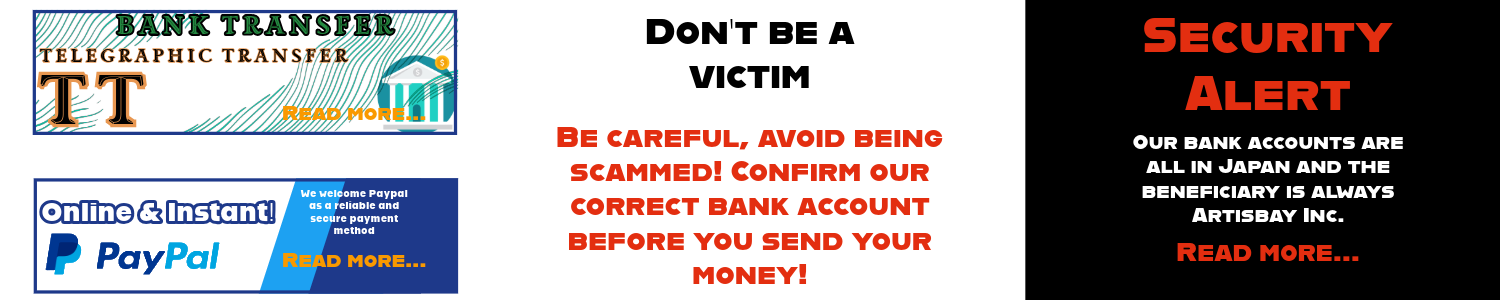
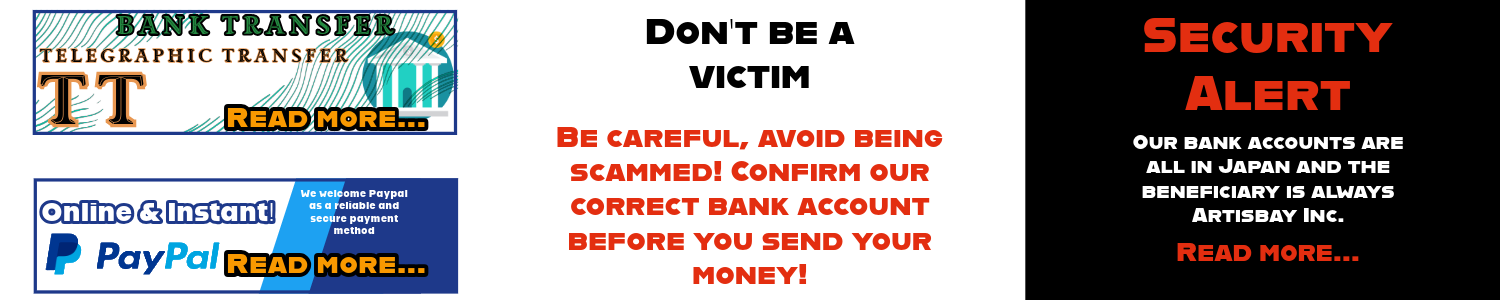
updated image distortion and width

Changed region(s): [[0.1227, 0.09, 0.3067, 0.45], [0.1227, 0.84, 0.3067, 0.93]]

diff --git a/src/css/RightSidebar.css b/src/css/RightSidebar.css
@@ -1,77 +1,82 @@
+/* Ensure the right sidebar has sufficient height */
 .right-sidebar {
-  width: 300px; /* Set the desired width */
+  width: 300px; /* Fixed width for sidebar */
   background-color: #fff; /* Optional: Set a background color */
-  padding: 20px 30px 0px 5px;
+  padding: 20px 10px 0px 5px; /* Adjust padding */
   display: flex;
-  align-items: stretch; /* Stretch children to fill the container */
+  flex-direction: column; /* Align children vertically */
+  box-sizing: border-box; /* Include padding in the total dimensions */
+}
+
+.right-sidebar h2 {
+  font-size: 1.5rem; /* Heading size */
+  margin-bottom: 15px; /* Space below the heading */
+  position: absolute;
+  top: 5%;
+}
+
+/* Account container takes full sidebar height */
+.right-sidebar .account-container {
+  flex: 1; /* Fill available space in sidebar */
+  display: flex;
+  flex-direction: column; /* Stack banners vertically */
+  justify-content: space-between; /* Space out banners evenly */
+  box-sizing: border-box; /* Include padding */
+  padding: 10px;
+  align-items: center;
+}
+
+/* Banners share space dynamically */
+.right-sidebar .register-banner,
+.right-sidebar .shipment-banner,
+.right-sidebar .welcome-banner {
+  flex: 1; /* Allow banners to share space equally */
+  display: flex;
+  justify-content: center; /* Center images horizontally */
+  align-items: center; /* Center images vertically */
+  height: 50%; /* Each banner takes half the container */
+  box-sizing: border-box;
   position: relative;
 }
 
-.right-sidebar .account-container {
-  padding: 5px 10px;
+.right-sidebar .shipment-banner {
+  margin-bottom: 0; /* Remove margin for last banner */
+}
+
+/* Images adjust dynamically within banners */
+.right-sidebar .register-banner img,
+.right-sidebar .shipment-banner img,
+.right-sidebar .welcome-banner img {
+  width: 100%; /* Fill the width of the parent container */
+  height: 100%; /* Fill the height of the parent container */
+  display: block; /* Avoid inline spacing */
+}
+
+.register-banner, .welcome-banner, .shipment-banner {
+  position: relative;
+} 
+
+.sign-in-btn, .register-btn {
+  background-color: transparent;
+  color: transparent;
+}
+
+.sign-in-btn {
+  position: absolute;
+  top: 23%;
+  left: 35%;
+}
+
+.register-btn {
+  position: absolute;
+  top: 1%;
+  width: 77%;
+  height: 13%;
+  left: 12%;
 }
 
 .welcome-banner {
-  position: relative;
-  background-image: url('../../public/images/homepage/register1.jpeg');
-  background-size: cover;
-  height: 50%;
   display: flex;
   justify-content: center;
-  margin: 10px 0;
-}
-
-.register-banner {
-  position: relative;
-  background-image: url('../../public//images/homepage/register0.jpeg');
-  height: 50%;
-  background-size: cover;
-  background-position: center;
-}
-
-.shipment-banner {
-  position: relative;
-  background-image: url('../../public//images/homepage/Shippingschedulepost.jpeg');
-  height: 45%;
-  background-size: cover;
-}
-
-.welcome-banner h2 {
-  position: absolute;
-  top: 7%;
-  color: #ffff;
-}
-
-.account-container {
-  width: 100%; /* Ensure it takes full width of the sidebar */
-  overflow: hidden; /* Hide overflow if images exceed the container */
-}
-
-.image-section {
-  margin-top: 20px; /* Space above the image section */
-  text-align: center; /* Center the images */
-  width: 100%; /* Ensure it takes full width */
-}
-
-.image-section img {
-  width: 100%; /* Make images responsive */
-  height: auto; /* Maintain aspect ratio */
-  max-width: 100%; /* Ensure images do not exceed the container width */
-  object-fit: cover; /* Maintain aspect ratio and cover the container */
-  margin-bottom: 10px; /* Space below each image */
-  box-sizing: border-box; /* Include padding and border in element's total width and height */
-}
-
-/* Optional: Specific styles for the additional image */
-.additional-image {
-  margin-top: 20px; /* Space above the additional image */
-}
-
-.account-container a {
-  text-decoration: none;
-}
-
-.right-sidebar .header {
-  position: relative;
-  top: -15px;
+ 
 }

diff --git a/src/css/homepage.css b/src/css/homepage.css
@@ -12,7 +12,7 @@ option {
 }
 
 .homepage {
-    padding: 20px 0px 0px 30px;
+    padding: 20px 0px 0px 20px;
     overflow: hidden; /* Prevent overflow issues */
     color: #444; /* Soft dark gray for general text */
     display: flex; /* Use flexbox to align elements */
@@ -136,7 +136,7 @@ option {
     display: grid;
     grid-template-columns: repeat(8, 1fr); /* Keep five columns */
     gap: 30px; /* Increased space between cards */
-    padding: 30px; /* Padding around the container */
+    padding: 20px; /* Padding around the container */
 }
 
 @media (max-width: 1000px){
@@ -363,7 +363,7 @@ option {
 .ad-header-container {
     display: flex; /* Use flexbox for layout */
     align-items: center; /* Align items vertically centered */
-    padding: 30px; /* Padding around the header container */
+    padding: 20px; /* Padding around the header container */
     position: relative;
 }
 
@@ -379,7 +379,7 @@ option {
 }
 .order-now , .pointer ,.cta-btn-link , .register-now-btn ,
  .eco-btn , .small-banner-btn , .security-btn , .dismantling-btn,
- .paypal-btn, .bank-btn{
+ .paypal-btn, .bank-btn, .sell-btn{
     background-color: transparent;
     color: transparent;
 }
@@ -574,6 +574,15 @@ option {
     width: 18%;
   }
 
+  .sell-btn {
+    position: absolute;
+    bottom: 16%;
+    right: 8%;
+    width: 21%;
+    height: 11%;
+
+  }
+
   .small-banner-btn a {
     color: inherit;
     text-decoration: none;
@@ -588,7 +597,7 @@ option {
 
 /* Useful links */
 .usefulLinks_wrapper {
-    margin: 0 30px;
+    margin: 0 20px;
     padding: 0;
     display: flex;
     justify-content: center;
@@ -621,7 +630,7 @@ option {
 }
 
 .wrapper , .newsupdates {
-    margin: 0 30px;
+    margin: 0 20px;
 }
 .news-item-container {
     box-shadow: 0 4px 15px rgba(0, 0, 0, 0.1); /* Subtle shadow */
@@ -630,7 +639,7 @@ option {
 }
 
 .news-item-container img {
-    width: 20%;
+    width: 15%;
 }
 
 .news-item {

diff --git a/src/components/ordersModal.js b/src/components/ordersModal.js
@@ -29,10 +29,19 @@ const Modal = ({ isOpen, onClose, orders }) => {
               width: 100%;
               border-collapse: collapse;
               background-image: url('${bgImage}');
-              -webkit-print-color-adjust: exact; 
-              background-repeat: no-repeat;
-              background-position: center;
+            
             }
+              @media print {
+              table {
+              
+                background-image: url('${bgImage}');
+                -webkit-print-color-adjust: exact !important;                 
+                color-adjust: exact !important;   
+                print-color-adjust: exact !important;
+                background-repeat: no-repeat;
+                background-position: center;
+                }
+              }
             th, td {
               text-align: center;
               border: 1px solid #ddd;
@@ -87,8 +96,8 @@ const Modal = ({ isOpen, onClose, orders }) => {
             <tbody>
               {allOrders.map((order, index) => (
                 <tr key={index}>
-                  <td>{order.maker}</td>
-                  <td>{`${order.width}/${order.aspectRatio}R${order.rimDiameter}`}</td>
+                  <td>{order.make}</td>
+                  <td>{`${order.width}/${order.aspect_ratio}R${order.rim_diameter}`}</td>
                   <td>{order.quantity}</td>
                   <td>{order.type}</td>
                 </tr>

diff --git a/src/components/rightsidebar.js b/src/components/rightsidebar.js
@@ -11,28 +11,25 @@ const RightSidebar = () => {
   <div className="account-container">
   {!user ? (
     <>
-     
-      <Link to='register'><div className="register-banner">
-        <div className="header">
-            <span className="person-icon">
-              <i className="fas fa-user-plus"></i>
-            </span>
-            <h2>Create an Account</h2>
-          </div></div></Link>
+    <div className="register-banner">
+      <img src={`${process.env.PUBLIC_URL}/images/homepage/register002.png`} />
+      <Link to='/login'><button className="sign-in-btn">sign in</button></Link>
+      <Link to='register'><button className="register-btn">register</button></Link>
+    </div>   
     </>
   ) : (
     <>
      <div className="welcome-banner">
+      
        <h2>welcome {`${user.name}`}</h2>
+       <img src={`${process.env.PUBLIC_URL}/images/homepage/register112.png`} />
     </div>
       
     </>
   )}
 
-<div className="shipment-banner">
 
-</div>
-  
+  <div className="shipment-banner"><img src={`${process.env.PUBLIC_URL}/images/homepage/shipping2.png`} /></div>
   
   </div>
 </div>

diff --git a/src/components/contact.js b/src/components/contact.js
@@ -181,13 +181,14 @@ const Contact = ({ sell }) => {
             onChange={handleChange} 
           />
 
-          <label htmlFor="enquiry">Enquiry Type<span className="required">*</span></label>
+          <label  style={{display: sell ? 'none': ''}}  htmlFor="enquiry">Enquiry Type<span className="required">*</span></label>
           <select 
             id="enquiry" 
             name="enquiry" 
             required 
             value={formData.enquiry} 
             onChange={handleChange}
+            style={{display: sell ? 'none': ''}}
           >
             
             {sell ? <option value='Sales'>Sles</option> : 

diff --git a/src/css/forgotPassword.css b/src/css/forgotPassword.css
@@ -16,8 +16,8 @@ h2 {
   color: #333;
 }
 
-.forgot-password-container input[type="email"],
-.forgot-password-container input[type="password"] {
+.reset-password-container input[type="email"],
+.reset-password-container input[type="password"] {
   width: 100%;
   max-width: 400px;
   padding: 12px;
@@ -45,7 +45,7 @@ h2 {
   background-color: #1e3a8a;
 }
 
-.message {
+.forgot-password-container .message {
   margin-top: 20px;
   padding: 10px;
   text-align: center;

diff --git a/src/components/homepage.js b/src/components/homepage.js
@@ -193,7 +193,7 @@ const links2 = [
               alt="sell banner"
             />
             <Link to="/help?topic=sell%20on%20artisbay">
-              <button className="small-banner-btn eco-btn">Read more</button>
+              <button className="sell-btn">Read more</button>
             </Link>
         </div>
 

diff --git a/src/css/login.css b/src/css/login.css
@@ -111,13 +111,6 @@
   }
   
 
-  
-  .right-sidebar h2 {
-    font-size: 1.8rem; /* Heading size */
-    margin-bottom: 15px; /* Space below the heading */
-  }
-  
-  
   /* Container for the account creation section */
   .account-container {
     background-color: #1da1f2; /* White background for contrast */

diff --git a/src/css/usedTiresForm.css b/src/css/usedTiresForm.css
@@ -124,7 +124,7 @@
     outline: none;
   }
   
-  button[type="submit"]:hover {
+ .usedTiresForm-container button[type="submit"]:hover {
     background-color: #00509e;
   }
   

diff --git a/src/css/usedTires.css b/src/css/usedTires.css
@@ -442,6 +442,7 @@ ul li {
   padding: 20px;
   border-radius: 8px;
   box-shadow: 0 4px 15px rgba(0, 0, 0, 0.1);
+  max-width: 1450px;
 }
 
 

diff --git a/src/css/searchForm.css b/src/css/searchForm.css
@@ -73,7 +73,7 @@
 }
 
 .search-btn:hover {
-  background-color: #555;
+  background-color: #1485fe;
 }
 
 /* Style options when hovered */
